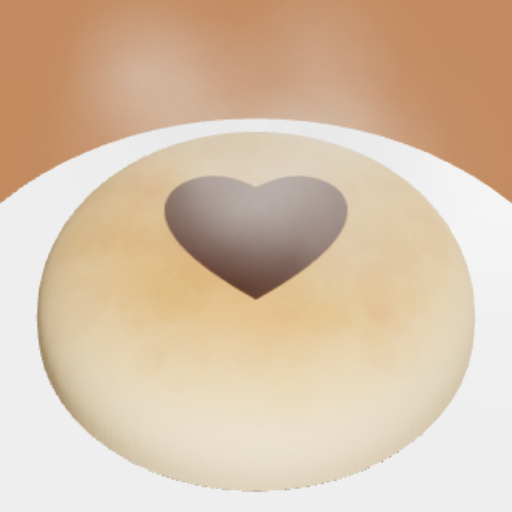
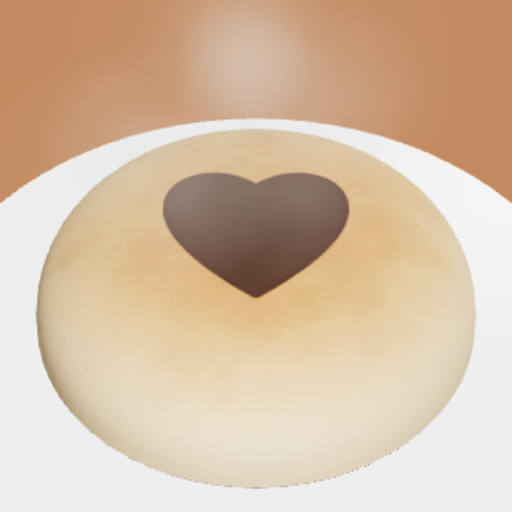
揺れを控えめに、焼く位置を中央固定、輪郭と濃い部分を強く焼く
Claude-Session: https://claude.ai/code/session_01MgTZM4GBeqC1EH83xM6WzN

diff --git a/games/manju-yakiin/index.html b/games/manju-yakiin/index.html
@@ -471,7 +471,7 @@ function extractRot(A, q) {
           2 * (x * z - y * w), 2 * (y * z + x * w), 1 - 2 * (x * x + y * y)];
 }
 
-const GRAV = -14, SUB = 6, STIFF = 0.1, DAMP = 0.996, FRIC = 0.6, VMAX = 9;
+const GRAV = -14, SUB = 6, STIFF = 0.4, DAMP = 0.985, FRIC = 0.6, VMAX = 9;
 function shapeMatch(J) {
   const { n, p, goal, cnt, clusters } = J;
   goal.fill(0);
@@ -519,11 +519,30 @@ function makeStamps() {
     const c = document.createElement('canvas'); c.width = Math.max(2, w); c.height = Math.max(2, h);
     const g = c.getContext('2d'); g.drawImage(sprite, 0, 0, c.width, c.height);
     const im = g.getImageData(0, 0, c.width, c.height), d = im.data;
-    for (let i = 0; i < d.length; i += 4) {
-      const lum = (0.3 * d[i] + 0.59 * d[i + 1] + 0.11 * d[i + 2]) / 255;
-      // 暗い所ほど強く焼ける。明るい所もうっすら焼ける
-      const a = d[i + 3] / 255 * (0.25 + 0.75 * Math.pow(1 - lum, gamma));
-      d[i] = rgb[0]; d[i + 1] = rgb[1]; d[i + 2] = rgb[2]; d[i + 3] = a * 255;
+    const W = c.width, Hh = c.height, lum = new Float32Array(W * Hh), al = new Float32Array(W * Hh);
+    for (let i = 0; i < W * Hh; i++) { lum[i] = (0.3 * d[i * 4] + 0.59 * d[i * 4 + 1] + 0.11 * d[i * 4 + 2]) / 255; al[i] = d[i * 4 + 3] / 255; }
+    // 透明な所は白として見る
+    const at = j => lum[j] * al[j] + (1 - al[j]);
+    // 輪郭（明るさの差と切り抜きのふち）を見つけて、少し太らせる
+    let E = new Float32Array(W * Hh);
+    for (let y = 0; y < Hh; y++) for (let x = 0; x < W; x++) {
+      const i = y * W + x, l = y * W + Math.max(0, x - 1), r = y * W + Math.min(W - 1, x + 1), u = Math.max(0, y - 1) * W + x, dn = Math.min(Hh - 1, y + 1) * W + x;
+      E[i] = Math.min(1, (Math.hypot(at(r) - at(l), at(dn) - at(u)) + Math.hypot(al[r] - al[l], al[dn] - al[u]) * 0.8) * 2.5);
+    }
+    const RAD = Math.max(1, Math.round(W / 220));
+    for (const horiz of [true, false]) {
+      const T = new Float32Array(W * Hh);
+      for (let y = 0; y < Hh; y++) for (let x = 0; x < W; x++) {
+        let m = 0;
+        for (let k = -RAD; k <= RAD; k++) { const xx = horiz ? x + k : x, yy = horiz ? y : y + k; if (xx >= 0 && xx < W && yy >= 0 && yy < Hh) m = Math.max(m, E[yy * W + xx]); }
+        T[y * W + x] = m;
+      }
+      E = T;
+    }
+    for (let i = 0; i < W * Hh; i++) {
+      // 濃い色ほど、輪郭ほど濃く焼ける
+      const a = Math.min(1, al[i] * (0.04 + 0.6 * Math.pow(1 - lum[i], 1.3 * gamma)) + E[i]);
+      d[i * 4] = rgb[0]; d[i * 4 + 1] = rgb[1]; d[i * 4 + 2] = rgb[2]; d[i * 4 + 3] = a * 255;
     }
     g.putImageData(im, 0, 0); return c;
   };
@@ -580,7 +599,7 @@ function step(dt) {
   const h = dt / SUB, { n, x, v, p } = M;
   let impact = 0;
   // 焼き印の高さ：押している間は皮より少し下まで押し込む
-  const press = pressing ? BOT + H - 0.22 : BOT + H + 0.7;
+  const press = pressing ? BOT + H - 0.1 : BOT + H + 0.7;
   ironY += (press - ironY) * Math.min(1, dt * (pressing ? 14 : 8));
   for (let s = 0; s < SUB; s++) {
     for (let i = 0; i < n; i++) {
@@ -626,15 +645,7 @@ function step(dt) {
 // ---- 操作 ----
 const ray = new THREE.Raycaster(), ndc = new THREE.Vector2();
 function setNdc(e) { const r = gl.getBoundingClientRect(); ndc.set((e.clientX - r.left) / r.width * 2 - 1, -(e.clientY - r.top) / r.height * 2 + 1); ray.setFromCamera(ndc, camera); }
-const topPlane = new THREE.Plane(new THREE.Vector3(0, 1, 0), -(BOT + H));
-function moveIron(e) {
-  setNdc(e);
-  const pt = new THREE.Vector3();
-  if (!ray.ray.intersectPlane(topPlane, pt)) return;
-  const d = Math.hypot(pt.x, pt.z), lim = R * 0.95;
-  if (d > lim) { pt.x *= lim / d; pt.z *= lim / d; }
-  ironX = pt.x; ironZ = pt.z;
-}
+function moveIron() { ironX = 0; ironZ = 0; } // 焼く位置は真ん中で固定
 let ptr = null;
 gl.addEventListener('pointerdown', e => {
   if (mode === 'start') { $('file').click(); return; }
@@ -683,7 +694,7 @@ function loop(now) {
 }
 
 // テスト・アイコン作成用の入口
-window.__burn = (s, sec) => { startBurn(s); ironY = BOT + H - 0.22; pressing = true; for (let i = 0; i < sec * 60; i++) step(1 / 60); pressing = false; };
+window.__burn = (s, sec) => { startBurn(s); ironY = BOT + H - 0.1; pressing = true; for (let i = 0; i < sec * 60; i++) step(1 / 60); pressing = false; };
 window.__done = () => setMode('done');
 resetManju();
 applyLang();
